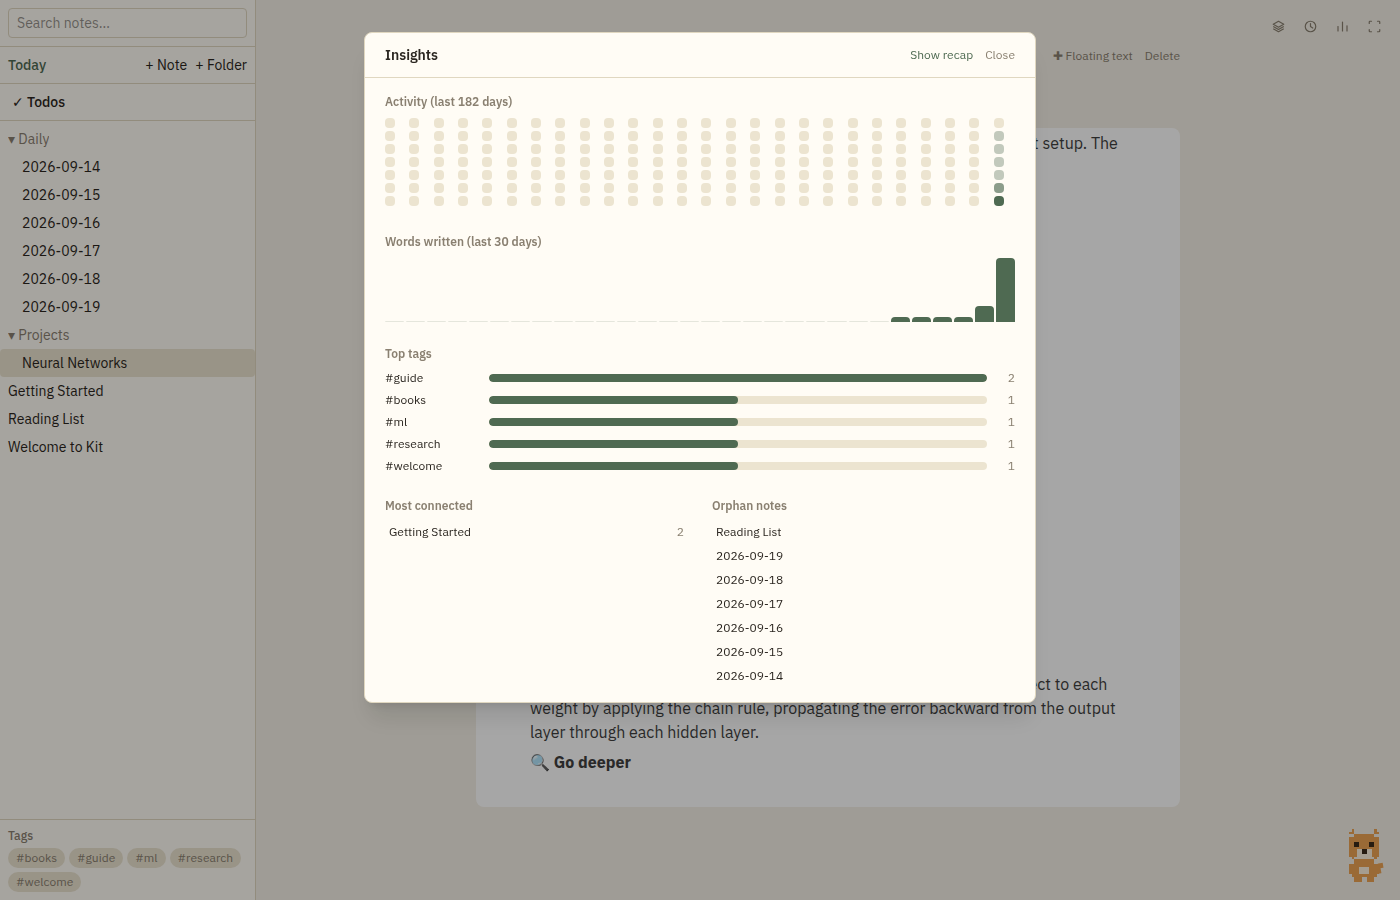
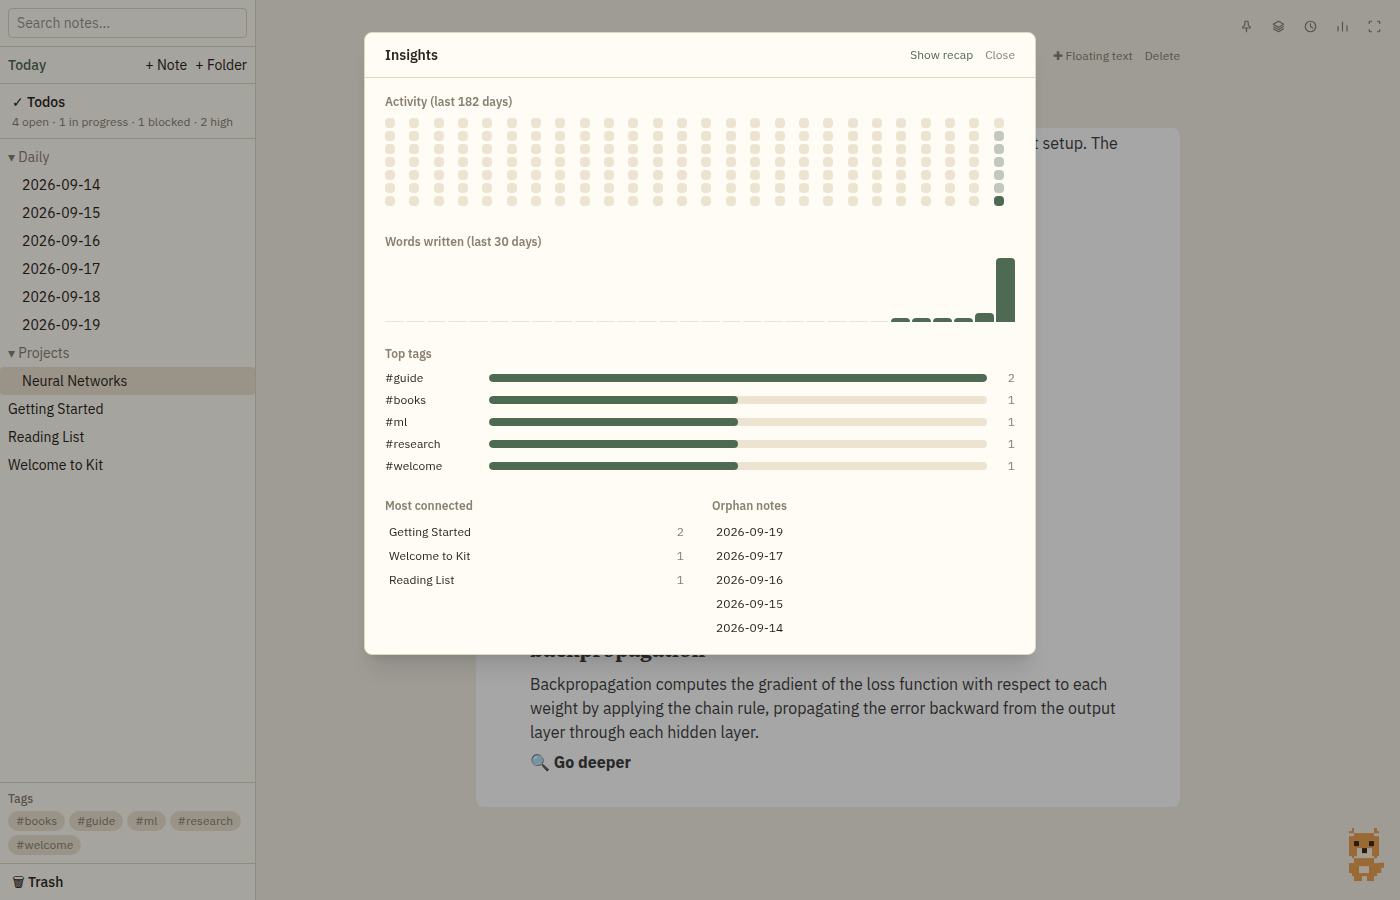
Document every feature added since the last docs pass
README and WALKTHROUGH hadn't been touched since the theme redesign,
so everything after it was undocumented: extract-to-linked-note,
always-on-top, wiki-link hover preview, full-text search, trash and
global undo, daily topic summaries, and the master todo list (which
actually predates the walkthrough but was missed entirely).

Regenerated all existing screenshots (stale sidebar/toolbar state) and
added 7 new ones for the above. Verified with check-docs, lint,
typecheck, the full test suite, and a build.

diff --git a/docs/WALKTHROUGH.md b/docs/WALKTHROUGH.md
@@ -7,13 +7,18 @@ Kit is a local-first, block-based note-taking desktop app. Every note is a plain
 - [The basics: folders, tags, and the block editor](#the-basics-folders-tags-and-the-block-editor)
 - [Linking notes together](#linking-notes-together)
 - [Daily notes and streaks](#daily-notes-and-streaks)
-- [The quick switcher](#the-quick-switcher)
+- [Full-text search](#full-text-search)
 - [LaTeX equations and function plots](#latex-equations-and-function-plots)
 - [AI-assisted research](#ai-assisted-research)
+- [Extract to a linked note](#extract-to-a-linked-note)
 - [Floating text blocks](#floating-text-blocks)
 - [Edit history, right in the margin](#edit-history-right-in-the-margin)
 - [Time travel: browsing and restoring past versions](#time-travel-browsing-and-restoring-past-versions)
 - [The Insights dashboard](#the-insights-dashboard)
+- [Daily topic summaries](#daily-topic-summaries)
+- [The master todo list](#the-master-todo-list)
+- [Trash and undo](#trash-and-undo)
+- [Always on top](#always-on-top)
 - [Focus mode](#focus-mode)
 - [Kit, the desk buddy](#kit-the-desk-buddy)
 - [Why plain files](#why-plain-files)
@@ -34,15 +39,21 @@ Type `[[Note Title]]` anywhere in a note to link to another note — click it to
 
 ![A note's "Linked from" backlinks panel, showing two notes that reference it](screenshots/03_backlinks_panel.png)
 
+Hover a `[[wiki-link]]` for a moment instead of clicking it and a small preview pops up with the linked note's title and opening content — an LSP-style "peek at the definition" so you can check what a term means without navigating away and back.
+
+![Hovering a wiki-link shows a preview popover of the linked note](screenshots/15_wiki_link_hover.png)
+
+Pasting content copied from a browser also carries a small citation: when the clipboard data includes a source URL (most browsers attach one), Kit appends a quiet "Source: `<url>`" line after the paste, OneNote-style. This is best-effort — not every browser/OS populates that header — so treat it as a nice-to-have rather than something to rely on.
+
 ## Daily notes and streaks
 
 Click **Today** in the sidebar to jump straight into an auto-created daily note — a lightweight home for a running log, journal entry, or scratch space. Kit tracks how many days in a row you've written one, shown in the buddy's stats popup and surfaced with a small celebration animation at 7/30/100/365-day milestones.
 
-## The quick switcher
+## Full-text search
 
-Press `Ctrl`/`Cmd`+`K` from anywhere to fuzzy-search every note by title and jump straight to it — no need to go hunting through folders.
+Press `Ctrl`/`Cmd`+`K` from anywhere to search — it matches note titles (fuzzy) and body content, showing a highlighted snippet of surrounding text for content matches so you can find where a term is mentioned, not just which note happens to be titled that way.
 
-![The quick switcher open, listing every note fuzzy-matched by title](screenshots/06_quick_switcher.png)
+![The search results for "backpropagation", a term that only appears in a note's body, showing a highlighted snippet](screenshots/06_quick_switcher.png)
 
 ## LaTeX equations and function plots
 
@@ -56,9 +67,15 @@ Both persist as plain, portable markdown — an equation is saved as a fenced ` 
 
 Select any term or phrase and a **✨ Research** button appears in the formatting toolbar. Click it and Kit drafts a concise explanation right into the note below your selection, with a **Go deeper** option to expand it into a fuller draft — meant as raw material you edit into your own words, not a final answer to leave untouched.
 
-![Selected text showing the AI research button in the formatting toolbar](screenshots/05_ai_research_toolbar.png)
+![Selected text showing the AI research and extract-to-linked-note buttons in the formatting toolbar](screenshots/05_ai_research_toolbar.png)
 
 The backend is currently a clearly-labeled stub so the feature works fully offline out of the box; wiring up a real model is a one-file change (`src/lib/ai.ts`).
+
+## Extract to a linked note
+
+Reading an article and jotting down a pile of unfamiliar terms to look into later? Select one, click **🔗 New linked note** in the same toolbar, and Kit creates a blank note for that term (or reuses an existing one by title, so a term you extract from a later article lands in the same accumulating note) and replaces your selection with a `[[link]]` to it. It deliberately doesn't navigate away or pre-fill anything — you stay on the article you're reading, and the new note is waiting, blank, for whenever you're ready to research it.
+
+![A term selected in a note, with the "New linked note" toolbar button visible](screenshots/16_extract_to_linked_note.png)
 
 ## Floating text blocks
 
@@ -86,6 +103,38 @@ Click the 📊 icon for a read-only dashboard of your vault: a GitHub-style acti
 
 ![The Insights panel with an activity heatmap, word trend, top tags, and connectivity lists](screenshots/09_insights_panel.png)
 
+## Daily topic summaries
+
+Click any day on the activity heatmap to see exactly which notes were written or edited that day, and their tags — a quick way to jog your memory about what a given day was about without opening every note from it individually.
+
+![Clicking a day on the activity calendar shows the notes touched that day, with tags](screenshots/18_daily_summary.png)
+
+Separately, once a day, Kit quietly appends a matching "📝 Topics touched today" section to the previous day's Daily note — wiki-linked, so you can click straight through — turning your daily notes into a running index of what you worked on, with no AI involved (just your own note metadata, deterministically summarized).
+
+![A Daily note with an auto-appended "Topics touched today" section listing linked notes](screenshots/19_daily_note_appended_summary.png)
+
+## The master todo list
+
+Separate from notes entirely, Kit has a Jira-style todo list for the vault: items get a status (to do / in progress / blocked / done), a priority, an optional deadline, and their own rich notes field using the same block editor as regular notes. Marking an item done archives it rather than deleting it, so nothing you've tracked is ever really gone.
+
+![The todo list, showing active items across every status and priority](screenshots/14_todo_list.png)
+
+The sidebar's **✓ Todos** entry shows a live one-line summary — open count, in-progress/blocked counts, high-priority count, and overdue count in red — so you can see what's outstanding without opening the list.
+
+## Trash and undo
+
+Deleting a note doesn't delete it. It moves the note (and its edit-history sidecar, if it has one) into a `_trash` folder in your vault, where the **🗑 Trash** entry at the bottom of the sidebar lists it with **Restore**, **Delete forever**, and an **Empty trash** option.
+
+![The Trash view, listing a deleted note with Restore and Delete forever actions](screenshots/17_trash_view.png)
+
+For the moment right after you delete something, there's a faster path: press `Ctrl`/`Cmd`+`Z` to instantly restore the most recently deleted note. It only acts when focus isn't in a text field or the editor, so it never fights with normal text-undo while you're typing.
+
+## Always on top
+
+Click the 📌 icon to pin Kit above every other window — handy for keeping a note visible while you jot things down alongside an article or video in your browser. The setting persists across restarts.
+
+![The pin icon toggled on, shown in accent color among the other toolbar icons](screenshots/20_always_on_top.png)
+
 ## Focus mode
 
 Click the ⛶ icon to hide the sidebar entirely and give the editor the full window — useful when you just want to write without the folder tree pulling your eye sideways.
@@ -106,4 +155,4 @@ A small pixel fox lives in the corner of the window. It's mostly decorative, but
 
 ## Why plain files
 
-Everything above is built on top of one constraint: your notes are always just markdown files on your own disk. Folders are real folders. Tags, timestamps, and note IDs live in a small YAML frontmatter header. Even the fancier features — equations, plots, floating blocks — degrade to plain, readable fenced code blocks rather than some opaque binary format. Edit history lives in a separate sidecar folder that never touches the note itself. If Kit disappeared tomorrow, your notes wouldn't.
+Everything above is built on top of one constraint: your notes are always just markdown files on your own disk. Folders are real folders. Tags, timestamps, and note IDs live in a small YAML frontmatter header. Even the fancier features — equations, plots, floating blocks — degrade to plain, readable fenced code blocks rather than some opaque binary format. Edit history lives in a separate sidecar folder that never touches the note itself, and a deleted note goes to a `_trash` folder rather than vanishing. If Kit disappeared tomorrow, your notes wouldn't.

diff --git a/README.md b/README.md
@@ -11,12 +11,16 @@ Notes live as plain markdown files (with a small YAML frontmatter header) on you
 ## Features
 
 - **Block-based editor** ([BlockNote](https://www.blocknotejs.org/)) — Notion-style editing with slash commands, checkboxes, images, file attachments, LaTeX equations, and function plots.
-- **Organization** — real folders on disk, tags, `[[wiki-link]]` backlinks with a linked-mentions panel, and an auto-created daily note.
-- **Search** — full-text search plus a fuzzy quick switcher (`Ctrl/Cmd+K`).
+- **Organization** — real folders on disk, tags, `[[wiki-link]]` backlinks with a linked-mentions panel and a hover preview, an auto-created daily note, and OneNote-style source citations on paste.
+- **Full-text search** — `Ctrl/Cmd+K` searches note titles (fuzzy) and body content, with highlighted snippets for content matches.
 - **Floating text blocks** — OneNote-style free-floating, draggable text blocks placed anywhere on a note, alongside the normal flowing content.
 - **AI-assisted terminology research** — select a term in a note and get an inline concise explanation, with a "go deeper" option for a fuller draft. The AI backend is currently stubbed (works fully offline); swapping in a real model is a one-file change (`src/lib/ai.ts`).
+- **Extract to a linked note** — select a term while reading, and branch it out into its own (or an existing) note for later research, without leaving the note you're in.
 - **Edit history** — a git-blame-style gutter showing when each block was last touched, plus a time-travel panel to browse and restore past versions of a note.
-- **Insights dashboard** — an activity heatmap, word-count trends, top tags, and note connectivity, all computed locally.
+- **Insights dashboard** — an activity heatmap (click a day to see what you wrote that day), word-count trends, top tags, and note connectivity, all computed locally. A short "topics touched today" summary is also auto-appended to each day's Daily note.
+- **Master todo list** — a Jira-style vault-wide todo list, separate from notes: status, priority, deadlines, and rich per-item notes, with a live summary badge in the sidebar.
+- **Trash & recovery** — deleting a note moves it to a trash folder instead of erasing it; restore it from the Trash view, or press `Ctrl/Cmd+Z` right after deleting to undo instantly.
+- **Always on top** — pin the window above others, e.g. to keep it visible while reading an article in a browser.
 - **Focus mode** — hide the sidebar to give the editor the full window.
 - **Desk buddy** — a small animated companion that reacts to saves, research, errors, and daily-note streaks, delivers a periodic recap, and shows a few vault stats and light housekeeping tips on hover.
 
